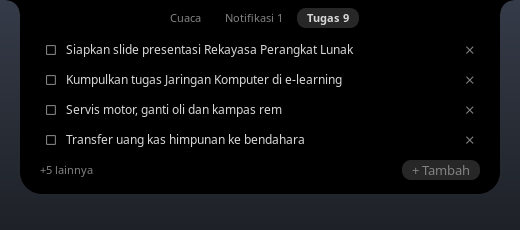
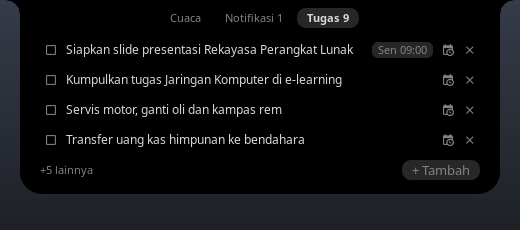
feat(ui): show to-do deadline chips and an edit button

diff --git a/eww/scss/_todo.scss b/eww/scss/_todo.scss
@@ -10,6 +10,7 @@
 }
 
 .todo-check,
+.todo-due-edit,
 .todo-remove {
   padding: 0 2px;
   font-size: 16px;
@@ -21,6 +22,26 @@
 }
 
 .todo-remove:hover {
+  color: $red;
+}
+
+.todo-due-edit:hover {
+  color: $island-accent;
+}
+
+.todo-due {
+  padding: 0 6px;
+  border-radius: 6px;
+  font-size: 11px;
+  color: $muted;
+  background-color: $island-track;
+}
+
+.todo-due.due-soon {
+  color: $yellow;
+}
+
+.todo-due.due-late {
   color: $red;
 }
 

diff --git a/docs/fitur.md b/docs/fitur.md
@@ -122,6 +122,14 @@ Urutan lokasi, GeoClue, dan privasi: [Konfigurasi → Lokasi cuaca](konfigurasi.
 
 Tab **Tugas** adalah daftar tugas singkat yang selalu tersedia (agar tugas pertama bisa ditambahkan), sehingga hover selalu membuka kartu; label tab memuat jumlah tugas yang belum selesai (`Tugas 3`). Daftar disimpan di `${XDG_DATA_HOME:-$HOME/.local/share}/eww-island/todo.json` sehingga tetap ada setelah reboot; perubahan ditulis atomik di bawah `flock`, dan file rusak dibaca sebagai daftar kosong lalu disisihkan sebagai `todo.json.corrupt` saat perubahan berikutnya. Urutan: tugas terbuka terbaru di atas, lalu tugas selesai (dicoret dan redup) yang terakhir diselesaikan di atas. Maksimal 4 baris tampil; scroll di atas daftar menggeser baris, `+N lainnya` menghitung sisanya. Kotak centang menandai selesai/belum, `×` menghapus, **Bersihkan selesai** menghapus semua tugas selesai. Kartu island tidak bisa menerima fokus keyboard di Openbox (window override-redirect), jadi **+ Tambah** menutup kartu lalu meminta teks lewat `rofi -dmenu -p Tugas`; teks dirapikan menjadi satu baris (maksimal 200 karakter) dan teks kosong diabaikan. Dari terminal: `scripts/todo add TEKS | toggle ID | remove ID | clear-done`.
 
+### Deadline
+
+Deadline bersifat opsional. Setelah **+ Tambah** meminta teks, rofi menawarkan **Tanpa deadline** sebagai pilihan pertama, lalu preset **Hari ini 17:00**, **Besok 09:00**, **Besok 17:00**, **Jumat 17:00**, dan **Senin 09:00**. Tombol **** di setiap baris membuka pengaturan deadline, termasuk **Hapus deadline**. Bisa juga mengetik `hari ini`, `besok`, `lusa`, nama hari `senin`–`minggu`, `28 okt`, atau `28/10`, dengan waktu opsional seperti `17:00`, `17.00`, `jam 17`, atau `jam 17:30`; tanggal tanpa waktu memakai pukul 17:00 secara bawaan.
+
+Chip deadline tampil di samping teks: redup untuk deadline yang masih jauh (misalnya `Jum 17:00`), kuning jika kurang dari 24 jam (misalnya `besok 09:00`), dan merah dengan label `terlambat` jika sudah lewat. Tugas tanpa deadline tidak menampilkan chip. Dari terminal: `scripts/todo add TEKS --due EPOCH`, `scripts/todo set-due ID EPOCH|none`, atau `scripts/todo due ID` untuk membuka rofi.
+
+Pengingat H-1 dan hari H dikirim pukul 09:00 secara bawaan sebagai notifikasi aplikasi **Tugas**, dengan judul `Deadline besok · HH:MM` atau `Deadline hari ini · HH:MM`; notifikasinya tetap tersimpan di tab **Notifikasi**. Jika beberapa pengingat terlewat, hanya yang terbaru dikirim. Tugas selesai tidak diingatkan; mengubah deadline mengaktifkan ulang pengingat. Waktu dan interval dapat diatur lewat [variabel lingkungan](konfigurasi.md#variabel-lingkungan).
+
 ## Pintasan
 
 Tab **Pintasan** berisi tombol ikon berlabel, tiga per baris, dibaca dari `eww/shortcuts` (perubahan langsung terbaca lewat `inotifywait`). Satu baris per tombol: `IKON | LABEL | PERINTAH`, opsional `| dnd` agar tombol menyala selama Jangan Ganggu dunst aktif; baris kosong dan baris berawalan `#` diabaikan, baris rusak dilewati dengan peringatan di log. Bawaan: Screenshot (`ob-screenshot --area`), Color picker (`ob-colorpicker`), Kunci layar (`betterlockscreen --lock`), Jangan ganggu (`dunstctl set-paused toggle`), Bluetooth (`rofi-bluetooth`), Daya (`rofi-powermenu`). Klik menutup kartu lebih dulu (agar tidak ikut tertangkap screenshot atau color picker), lalu menjalankan perintah lewat `sh` di sesi sendiri (`setsid`) tanpa output ke eww. Jika programnya tidak ditemukan, muncul notifikasi "Perintah tidak ditemukan". Karena tab ini selalu ada, hover di atas pill idle kini selalu membuka kartu; Musik, Cuaca, dan Notifikasi tetap didahulukan bila belum ada tab tersimpan.

diff --git a/docs/konfigurasi.md b/docs/konfigurasi.md
@@ -84,4 +84,9 @@ Diset saat menjalankan `~/.config/openbox/island.sh`; daemon dan listener mewari
 | `ISLAND_CONSERVATION_INTERVAL` | `5` | Interval baca mode konservasi (detik) | `eww/scripts/lib/alert/conservation.sh` | [aktivitas](fitur.md#aktivitas) |
 | `ISLAND_VPN_INTERVAL` | `10` | Interval pemeriksaan VPN/Tailscale (detik) | `eww/scripts/lib/alert/vpn.sh` | [aktivitas](fitur.md#aktivitas) |
 | `ISLAND_REC_INTERVAL` | `2` | Interval pemeriksaan `/proc` untuk perekaman layar saat tidak merekam (detik) | `eww/scripts/rec` | [indikator](fitur.md#indikator) |
+| `ISLAND_DEADLINE_TIME` | `17:00` | Waktu deadline untuk tanggal yang diketik tanpa jam | `eww/scripts/lib/todo/deadline.sh` | [deadline](fitur.md#deadline) |
+| `ISLAND_DEADLINE_EVE` | `09:00` | Jam pengingat H-1; nilai kosong menonaktifkannya | `eww/scripts/lib/todo/deadline.sh` | [deadline](fitur.md#deadline) |
+| `ISLAND_DEADLINE_DAY` | `09:00` | Jam pengingat hari H; nilai kosong menonaktifkannya | `eww/scripts/lib/todo/deadline.sh` | [deadline](fitur.md#deadline) |
+| `ISLAND_DEADLINE_INTERVAL` | `30` | Interval pemeriksaan pengingat deadline (detik) | `eww/scripts/lib/alert/deadline.sh` | [deadline](fitur.md#deadline) |
+| `ISLAND_TODO_TICK` | `60` | Interval pembaruan label dan warna deadline pada daftar tugas (detik) | `eww/scripts/todo` | [deadline](fitur.md#deadline) |
 | `OB_YTM_AUTH` | `~/.config/ytm-player/auth.json` | Login ytm-player untuk status tombol suka (lirik YouTube Music tetap memakai `${XDG_CONFIG_HOME:-$HOME/.config}/ytm-player/auth.json`) | `eww/scripts/ytm_like.py` | [tombol-suka-youtube-music](#tombol-suka-youtube-music) |

diff --git a/README.md b/README.md
@@ -54,7 +54,7 @@ openbox-island sits at the top edge of monitor 0 like a notch: a 508×44 px comp
 - Temporary pill alerts for volume and mute, microphone, audio output switch, brightness, charging, battery (including Lenovo conservation mode), low battery, Wi-Fi, Bluetooth, VPN and Tailscale, new screenshots (with a thumbnail), CPU/GPU temperature, Caps Lock, and ACPI power profile.
 
 **Tabs**
-- The expanded card has **Music**, **Weather**, **Notifications**, **To-do** and **Shortcuts** tabs. Each tab appears only while it has content; To-do is always available.
+- The expanded card has **Music**, **Weather**, **Notifications**, **To-do** and **Shortcuts** tabs. Each tab appears only while it has content; To-do is always available and supports optional deadlines with reminders the day before and on the day.
 
 **Indicators**
 - Dots on the pill for screen recording (red, with elapsed time), microphone in use (yellow) and camera in use (green), plus a crossed-out bell while dunst Do Not Disturb is on.
